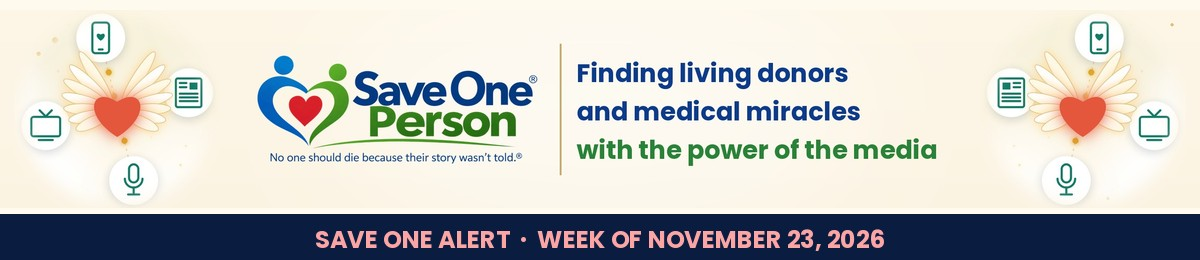
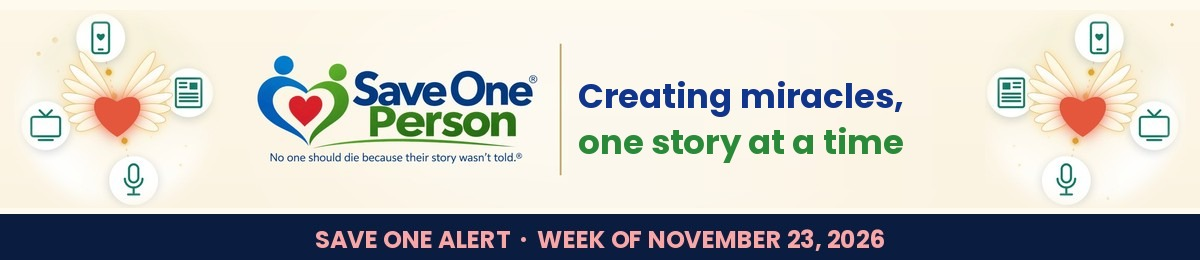
Newsletter header: new tagline 'Creating miracles, one story at a time'
Claude-Session: https://claude.ai/code/session_01QWtLC1jh74KzskpCtZbWrn

Changed region(s): [[0.4625, 0.2462, 0.7708, 0.4615], [0.4625, 0.4923, 0.8017, 0.6462]]

diff --git a/ops/email/2026-11-30-save-one-alert-gavin.html b/ops/email/2026-11-30-save-one-alert-gavin.html
@@ -1,6 +1,6 @@
 <table role="presentation" width="1000" cellpadding="0" cellspacing="0" border="0" style="width:100%;max-width:1000px;background:#ffffff;font-family:Arial,Helvetica,sans-serif;color:#1e293b;">
 
-  <tr><td style="padding:0;"><a href="https://www.saveonepersonnow.org"><img src="https://www.saveonepersonnow.org/images/newsletter/nl-header.jpg" width="1000" alt="Save One Person: Finding living donors and medical miracles with the power of the media" style="display:block;width:100%;height:auto;border:0;"></a></td></tr>
+  <tr><td style="padding:0;"><a href="https://www.saveonepersonnow.org"><img src="https://www.saveonepersonnow.org/images/newsletter/nl-header.jpg?v=2" width="1000" alt="Save One Person: Creating miracles, one story at a time" style="display:block;width:100%;height:auto;border:0;"></a></td></tr>
 
   <tr><td style="padding:22px 44px 20px;background:#ffffff;color:#0a1c40;font-size:18px;line-height:1.5;">
     <div style="font-size:22px;font-weight:bold;margin-bottom:8px;">Hi, it's Lauren!</div>
